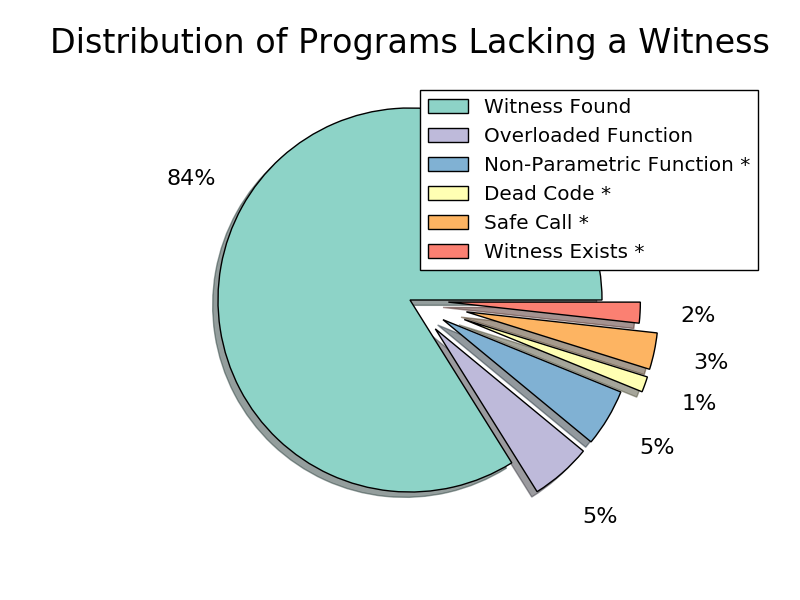
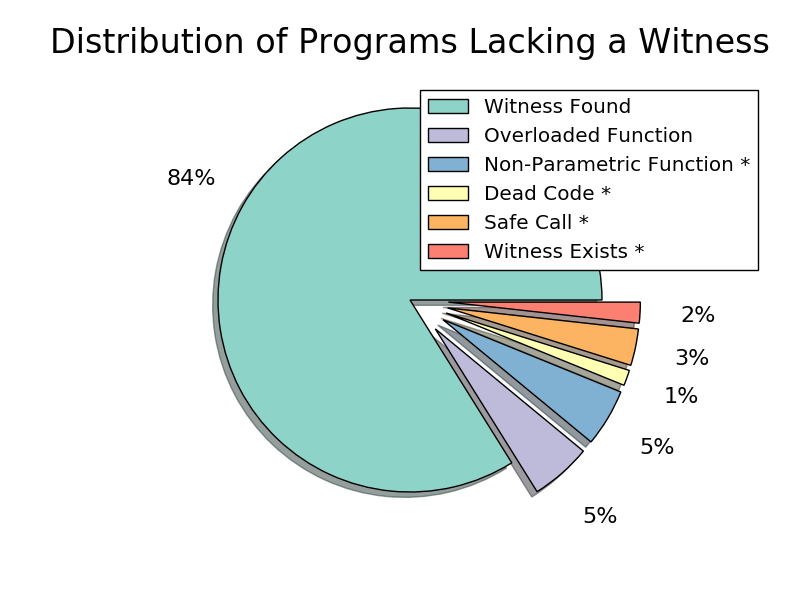
minor tweak

Changed region(s): [[0.5312, 0.51, 0.9062, 0.69]]

diff --git a/paper/jfp-submission/plots.py b/paper/jfp-submission/plots.py
@@ -377,7 +377,7 @@ def plot_distrib_extended(ucsd):
     plt.axes(aspect=1)
     p1 = plt.pie(rs_u,
                  labels=ALL_DL_E,
-                 explode=[0, 0.2, 0.2, 0.3, 0.3, 0.2],
+                 explode=[0, 0.2, 0.2, 0.2, 0.2, 0.2],
                  autopct='%.0f%%',
                  pctdistance=1.3,
                  labeldistance=10,
